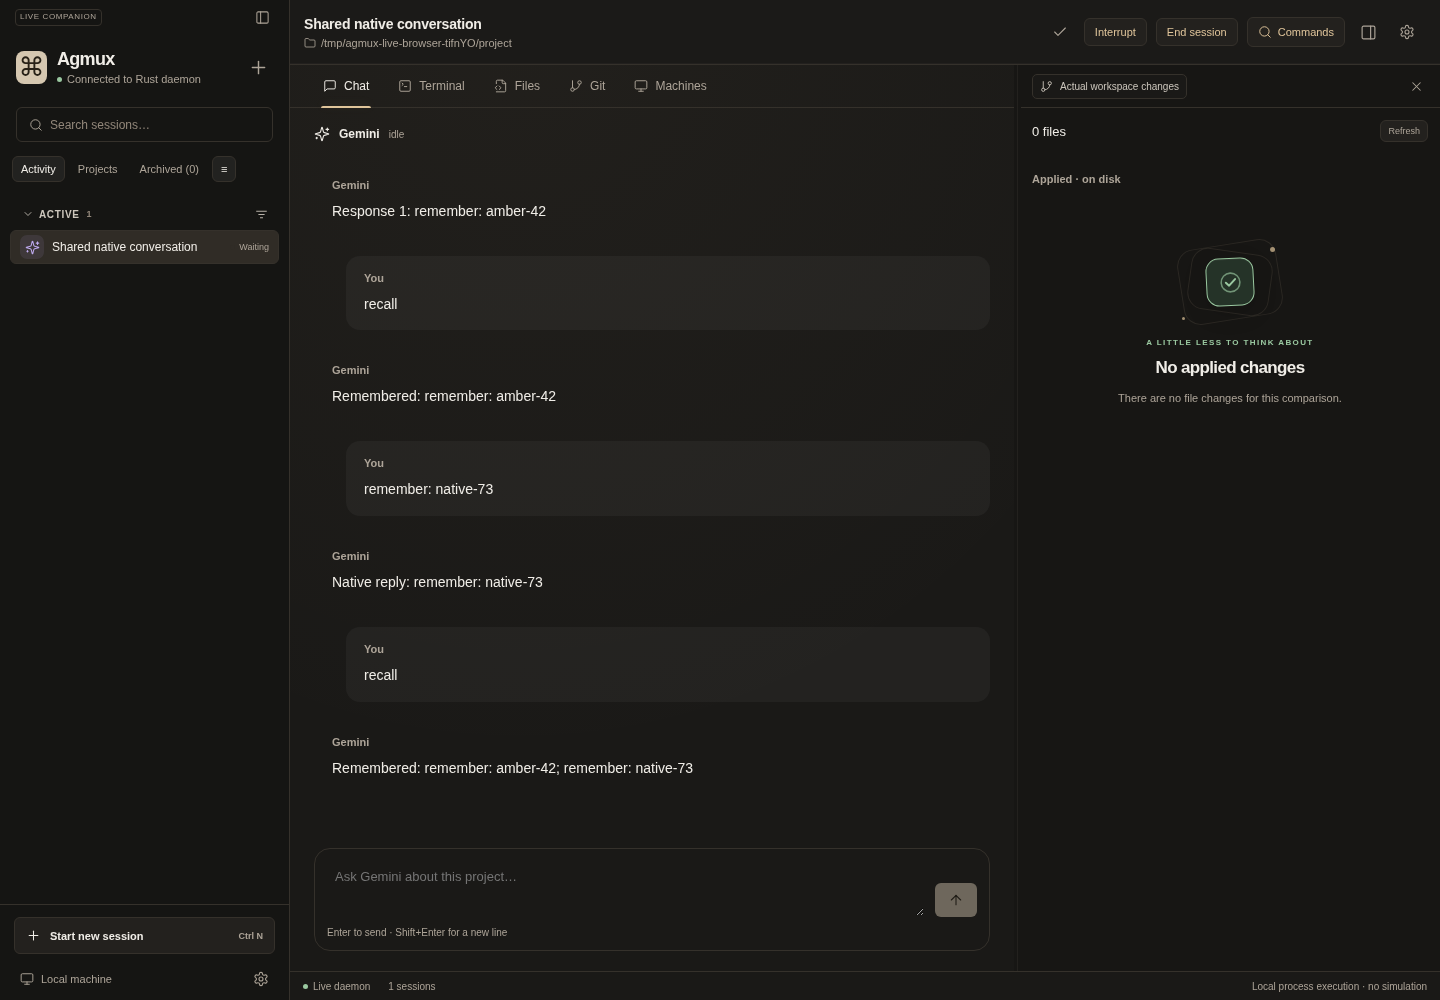
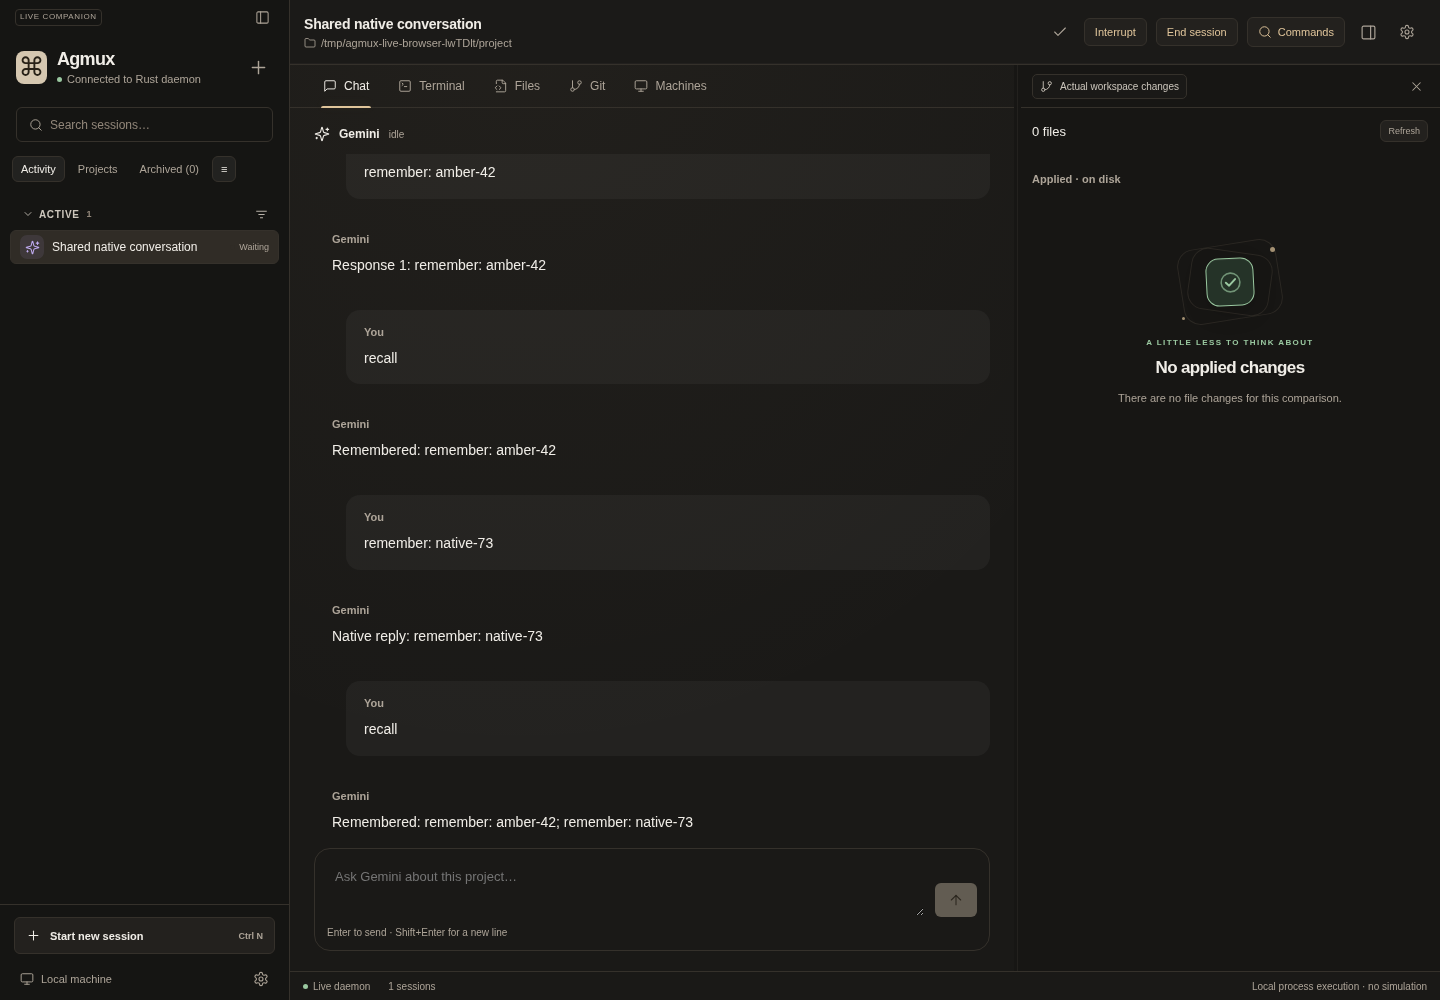
fix: keep native readiness across terminal protocol replies

diff --git a/crates/agmux-cli/src/companion_gui/ui/tests/workflow.spec.ts b/crates/agmux-cli/src/companion_gui/ui/tests/workflow.spec.ts
@@ -62,6 +62,8 @@ test("TEST-VER-UX-113/114: real native terminal and proper Chat synchronize one 
     page.getByLabel("Message Gemini", { exact: true }),
   ).not.toBeVisible();
   await expect(page.locator(".xterm-screen")).toBeVisible();
+  const project=(await api(page,"/api/info")).value.cwd;
+  await expect.poll(async()=>{try{return await readFile(path.join(path.dirname(project),"gemini-home","terminal-reports.jsonl"),"utf8");}catch{return "";}}).toContain(first.provider_session_id);
   await expect
     .poll(
       async () =>

diff --git a/crates/agmux-daemon/src/gemini_chat.rs b/crates/agmux-daemon/src/gemini_chat.rs
@@ -641,7 +641,7 @@ pub async fn close(id: &str) {
         if let Err(e) = chat.refresh_native(std::path::Path::new(".")).await {
             tracing::warn!(%e,"Reading native history on end failed");
         }
-        if let Err(e) = chat.stop_native().await {
+        if let Err(e) = chat.stop_native(true).await {
             tracing::error!(%e,"Stopping native Gemini failed");
         }
         {
@@ -905,8 +905,20 @@ fn native_messages(text: &str, id: &str) -> Result<Vec<Value>> {
 }
 
 impl Chat {
-    async fn stop_native(&self) -> Result<()> {
-        let native = { self.native.lock().await.take() };
+    async fn stop_native(&self, force: bool) -> Result<bool> {
+        let native = {
+            let mut slot = self.native.lock().await;
+            // Recheck readiness atomically with detaching input ownership: a
+            // received key must not race the earlier view-switch snapshot.
+            if !force
+                && slot
+                    .as_ref()
+                    .is_some_and(|n| !n.idle && n.session.subscribe_exit().borrow().is_none())
+            {
+                return Ok(false);
+            }
+            slot.take()
+        };
         if let Some(native) = native {
             let mut exit = native.session.subscribe_exit();
             let already_exited = exit.borrow().is_some();
@@ -924,7 +936,7 @@ impl Chat {
             }
             let _ = tokio::fs::remove_dir_all(native.dir).await;
         }
-        Ok(())
+        Ok(true)
     }
     async fn refresh_native(&self, _cwd: &Path) -> Result<()> {
         use std::io::Read;
@@ -1109,7 +1121,10 @@ impl Chat {
                 return Ok(());
             }
             self.state.lock().await.status = "switching".into();
-            self.stop_native().await?;
+            if !self.stop_native(false).await? {
+                self.state.lock().await.status = "working".into();
+                return Ok(());
+            }
             if let Err(e) = self.connect(cwd).await {
                 let mut s = self.state.lock().await;
                 s.owner = "chat".into();
@@ -1170,8 +1185,38 @@ pub async fn native_input(id: &str, data: &[u8]) -> Result<bool> {
     let Some(native) = native.as_mut() else {
         return Ok(false);
     };
-    native.last_input = now();
-    native.idle = false;
+    // Terminal protocol replies are not a user draft or model submission.
+    // Deliver them unchanged without revoking the last confirmed idle boundary.
+    if !terminal_report(data) {
+        native.last_input = now();
+        native.idle = false;
+    }
     native.session.send_input(data)?;
     Ok(true)
+}
+
+fn terminal_report(data: &[u8]) -> bool {
+    if matches!(data, b"\x1b[I" | b"\x1b[O") {
+        return true;
+    }
+    if data.len() > 3
+        && data.starts_with(b"\x1b[")
+        && matches!(data.last(), Some(b'R' | b'c' | b't' | b'y'))
+    {
+        return data[2..data.len() - 1]
+            .iter()
+            .all(|b| b.is_ascii_digit() || b";?=>$:".contains(b));
+    }
+    if data.starts_with(b"\x1b[?")
+        && data.ends_with(b"u")
+        && data[3..data.len() - 1]
+            .iter()
+            .all(|b| b.is_ascii_digit() || *b == b';')
+    {
+        return true;
+    }
+    let color = data.starts_with(b"\x1b]10;")
+        || data.starts_with(b"\x1b]11;")
+        || data.starts_with(b"\x1b]12;");
+    color && (data.ends_with(b"\x07") || data.ends_with(b"\x1b\\"))
 }

diff --git a/.backlog/tasks/task-43 - QA17-B1-Shared-Chat-and-Terminal-conversation.md b/.backlog/tasks/task-43 - QA17-B1-Shared-Chat-and-Terminal-conversation.md
@@ -4,7 +4,7 @@ title: 'QA17 B1: Shared Chat and Terminal conversation'
 status: Done
 assignee: []
 created_date: '2026-11-18T01:54:00Z'
-updated_date: '2026-11-18T20:11:00Z'
+updated_date: '2026-11-18T20:29:00Z'
 labels: []
 dependencies: []
 references:
@@ -82,4 +82,8 @@ Implemented and public-seam regressions passed. See tests/reports/qa17_batch2_ac
 User correction 2026-11-18: preserve proper Chat and actual native Gemini CLI/TUI. Reopen shared-session slice; replace terminal-styled Chat with single-writer persisted-session handoff (ACP loadSession / native --resume), live native transcript synchronization and turn/approval handoff guards. No second independent conversation.
 
 Native correction public-seam verification passed: 18 full workflow cases, six final focused handoff/PID/tool-activity cases, seven official CLI/application cases (actual Gemini 0.68 native authentication TUI), 126 Rust tests and 11 state/design/motion cases. Updated 113/114 contracts are verified; signed-in Windows model/DPI acceptance remains under TASK-50. See tests/reports/qa17_native_terminal_report.md.
+
+Native TUI follow-up: real cursor/device reports were being classified as user input, incorrectly preventing an idle handoff. Reproduced through actual PTY → xterm → WebSocket → native input with a provider CSI 6n query. Add a public round-trip regression and exclude only recognized automatic reports from the draft guard; raw bytes still pass unchanged.
+
+Follow-up native protocol regression fixed: a real provider CSI 6n request receives a real xterm reply before idle is asserted. The earlier false Working state reproduced; all six final handoff/PID/tool/approval/exit/rapid-switch cases pass with the fix. Terminal replies pass unchanged, while real input invalidates readiness; ownership readiness is rechecked atomically before reaping.
 <!-- SECTION:NOTES:END -->

diff --git a/tests/reports/qa17_native_terminal_report.md b/tests/reports/qa17_native_terminal_report.md
@@ -107,3 +107,13 @@ Chat. Check native exit/resume and End → Inactive/Archive retention.
 Record the archive checksum, Windows/Gemini version, display scaling, actual
 result and screenshots in issue #17. TASK-50 and authenticated/user acceptance
 remain open; the PR stays draft until that acceptance is recorded.
+
+## Native terminal protocol regression
+
+A real CSI 6n query/response reproduced an incorrect permanent Working state:
+automatic xterm replies were being treated as user draft edits. The readiness
+guard now distinguishes known cursor/device/mode/size/color/focus reports while
+forwarding every byte unchanged. Actual keys, edits, pastes and prompts still
+invalidate readiness until the provider's next lifecycle boundary. The public
+native-context regression waits for an actual xterm reply before asserting idle
+and proceeding through the same saved provider session.

diff --git a/crates/agmux-daemon/docs/gemini_chat_lld.md b/crates/agmux-daemon/docs/gemini_chat_lld.md
@@ -101,3 +101,9 @@ sessionId and replaces repeated record IDs; terminal screens/banners are never
 parsed into assistant messages. Ended transcripts remain retained in SQLite.
 Native PTY output/input/resize uses existing authenticated daemon/WebSocket
 seams, preserving actual ANSI rendering and keyboard semantics.
+
+Automatic terminal replies (cursor/device/mode/size/color and focus reports) are
+forwarded unchanged but do not revoke native readiness. They are protocol traffic,
+not user input drafts. The native external-provider regression requests a real
+CSI 6n cursor position and verifies xterm's reply arrives before checking idle,
+so a fake text terminal or a false-busy guard cannot satisfy the test.
